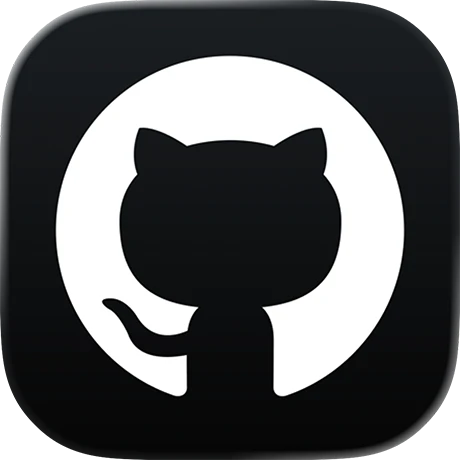
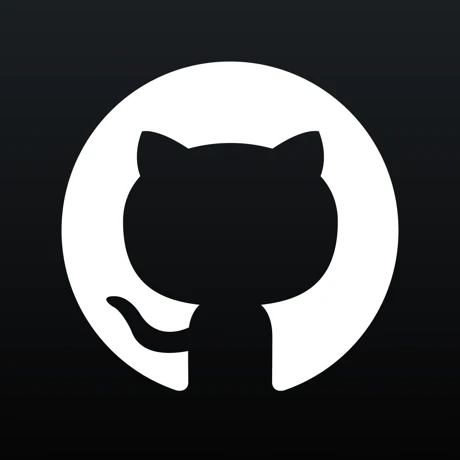
changed the images, fixed the dark and light images for profile

diff --git a/components/LinksSection.tsx b/components/LinksSection.tsx
@@ -22,14 +22,16 @@ const LinksSection = () => {
                   <div className="absolute top-1/2 right-2 -translate-y-1/2">
                     <ArrowUpRight size={15} color="var(--muted-foreground)" />
                   </div>
-                  <div className="">
+                  <div className="relative size-12 shrink-0">
                     <Image
+                      className="rounded-xl"
                       src={icon}
                       color="var(--muted-foreground)"
                       alt={description}
                       width={50}
                       height={50}
                     />
+                    <div className="pointer-events-none absolute inset-0 rounded-xl ring-1 ring-transparent ring-inset dark:ring-white/10"></div>
                   </div>
                   <div className="flex flex-col">
                     <h2 className="font-bold underline-offset-3 group-hover:underline">

diff --git a/components/BrandImage.tsx b/components/BrandImage.tsx
@@ -2,8 +2,8 @@
 import { useTheme } from "next-themes";
 import React, { useEffect, useState } from "react";
 import Image from "next/image";
-import lightModeHeaderLogo from "@/app/assets/header-logo-light.png";
-import darkModeHeaderLogo from "@/app/assets/header-logo-dark.png";
+import lightModeHeaderLogo from "@/public/header-logo-light.png";
+import darkModeHeaderLogo from "@/public/header-logo-dark.png";
 const BrandImage = () => {
   const { theme } = useTheme();
   const [mounted, setMounted] = useState(false);

diff --git a/app/data/Socials.ts b/app/data/Socials.ts
@@ -25,7 +25,7 @@ export const SOCIAL_LINKS: SocialLink[] = [
     href: "https://x.com/Shubham04441343",
   },
   {
-    icon: "/social_icons/leetcode.webp",
+    icon: "/social_icons/leetcode.png",
     title: "LeetCode",
     description: "@The_Runner07",
     href: "https://leetcode.com/u/The_Runner07/",

diff --git a/app/data/user.tsx b/app/data/user.tsx
@@ -49,7 +49,7 @@ export const user = {
       icon: <Mail />,
       title: (
         <div>
-          <Link href={"shubhamb23efd@gmail.com"}>
+          <Link href={"https://shubhamb23efd@gmail.com"}>
             <LinkEffect>shubhamb23efd@gmail.com</LinkEffect>
           </Link>
         </div>
